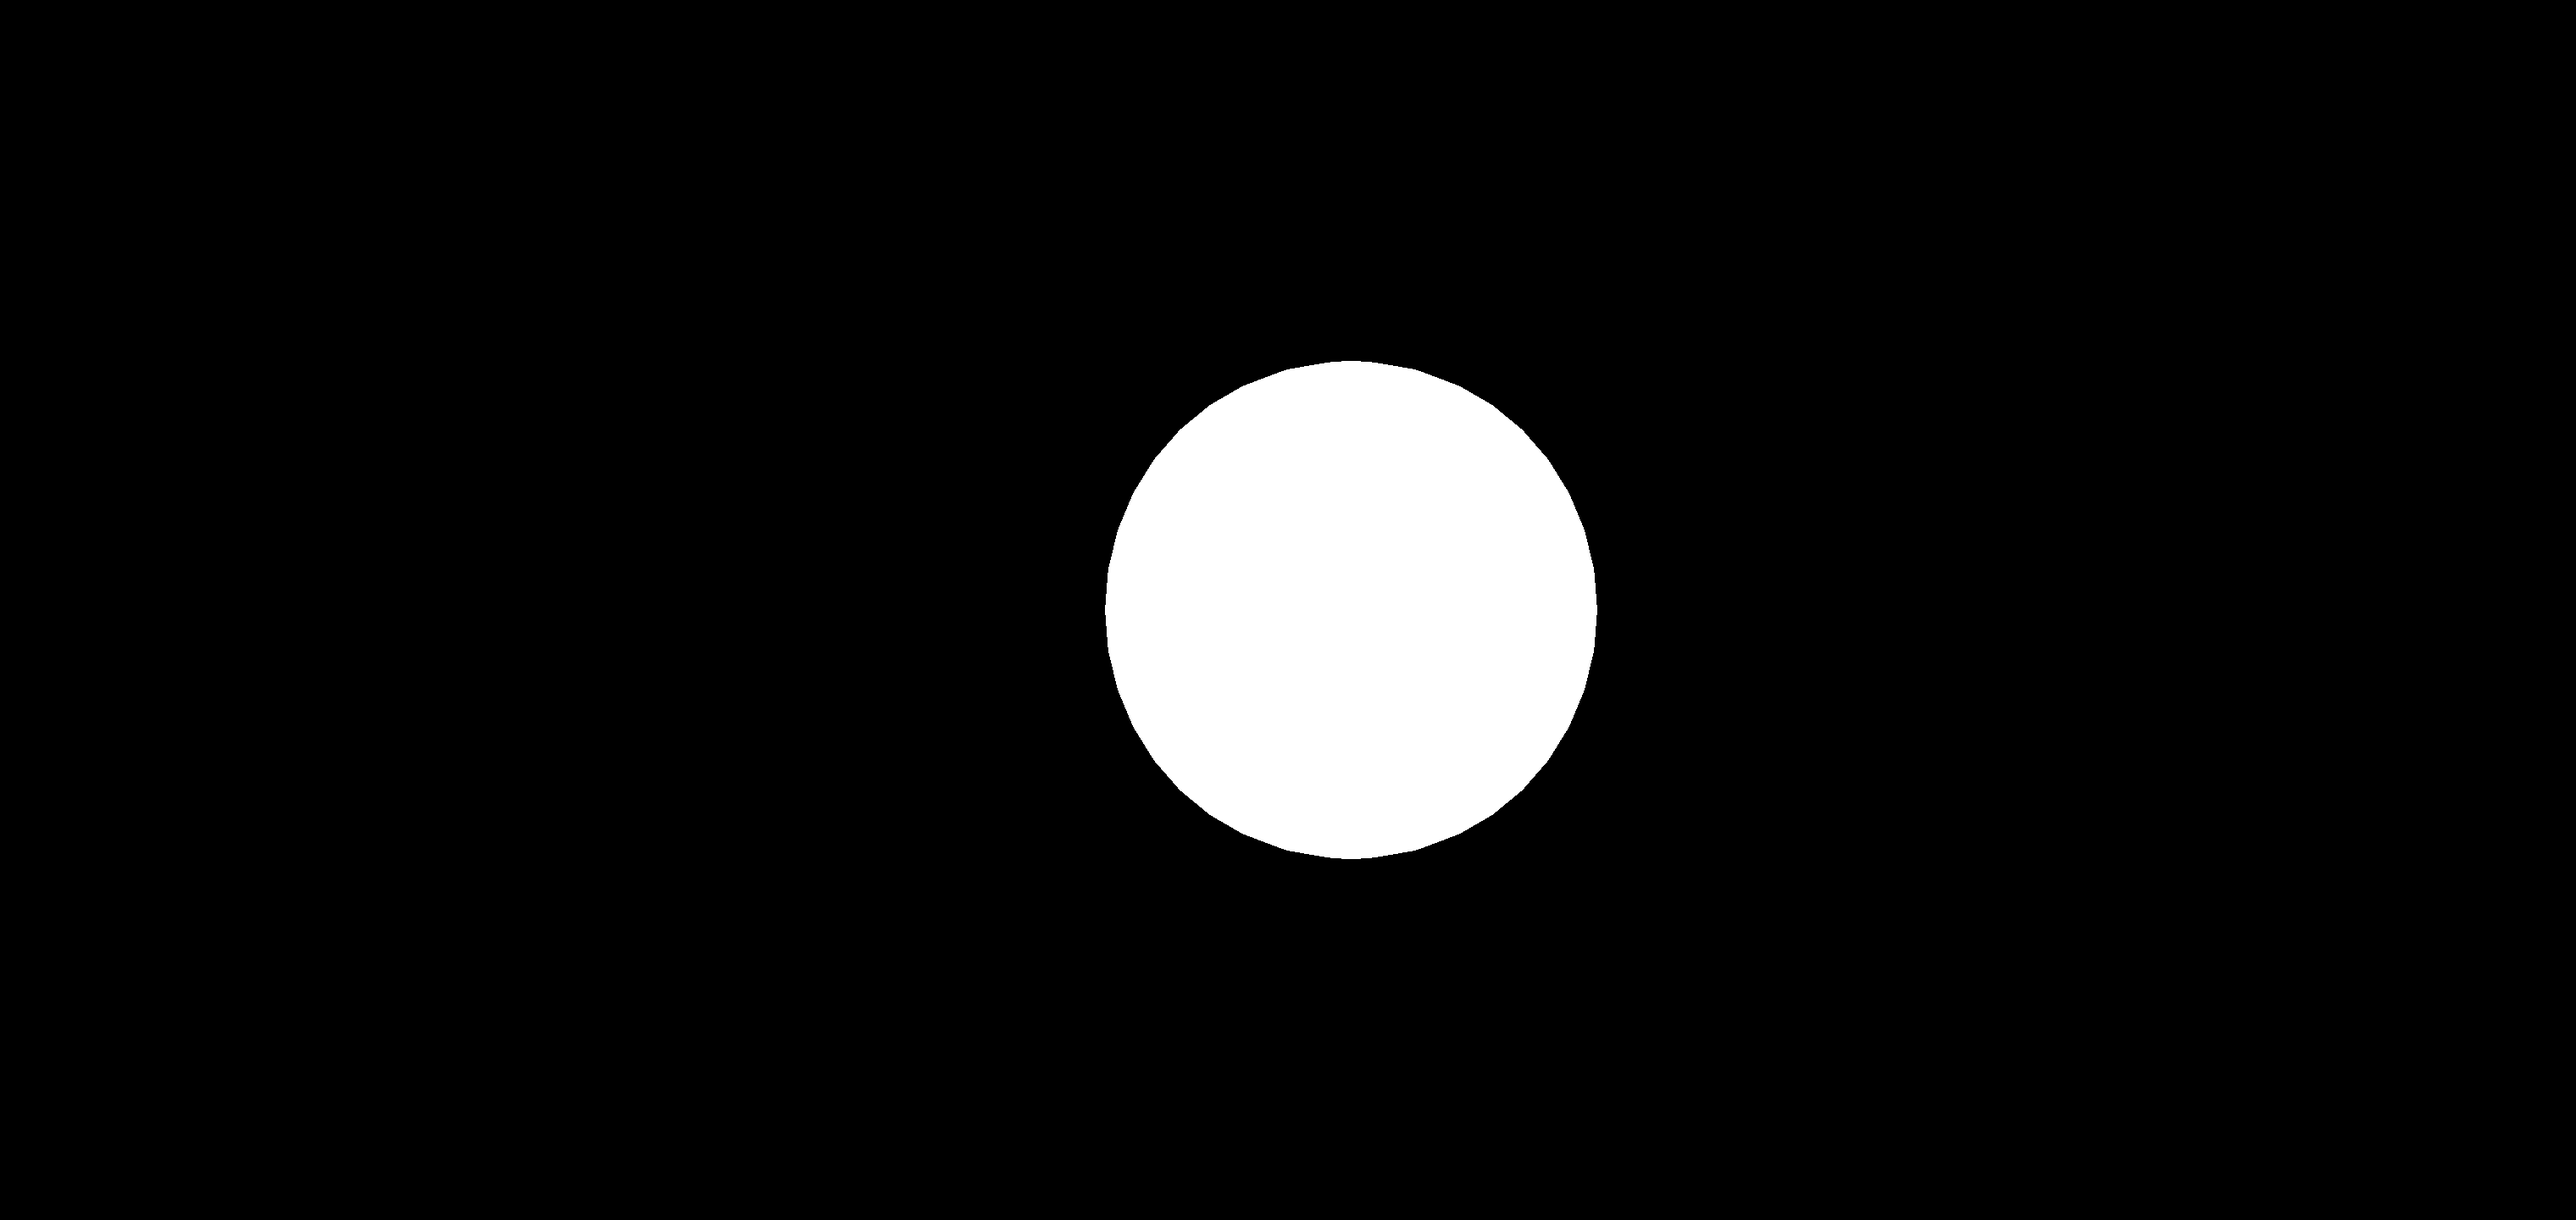
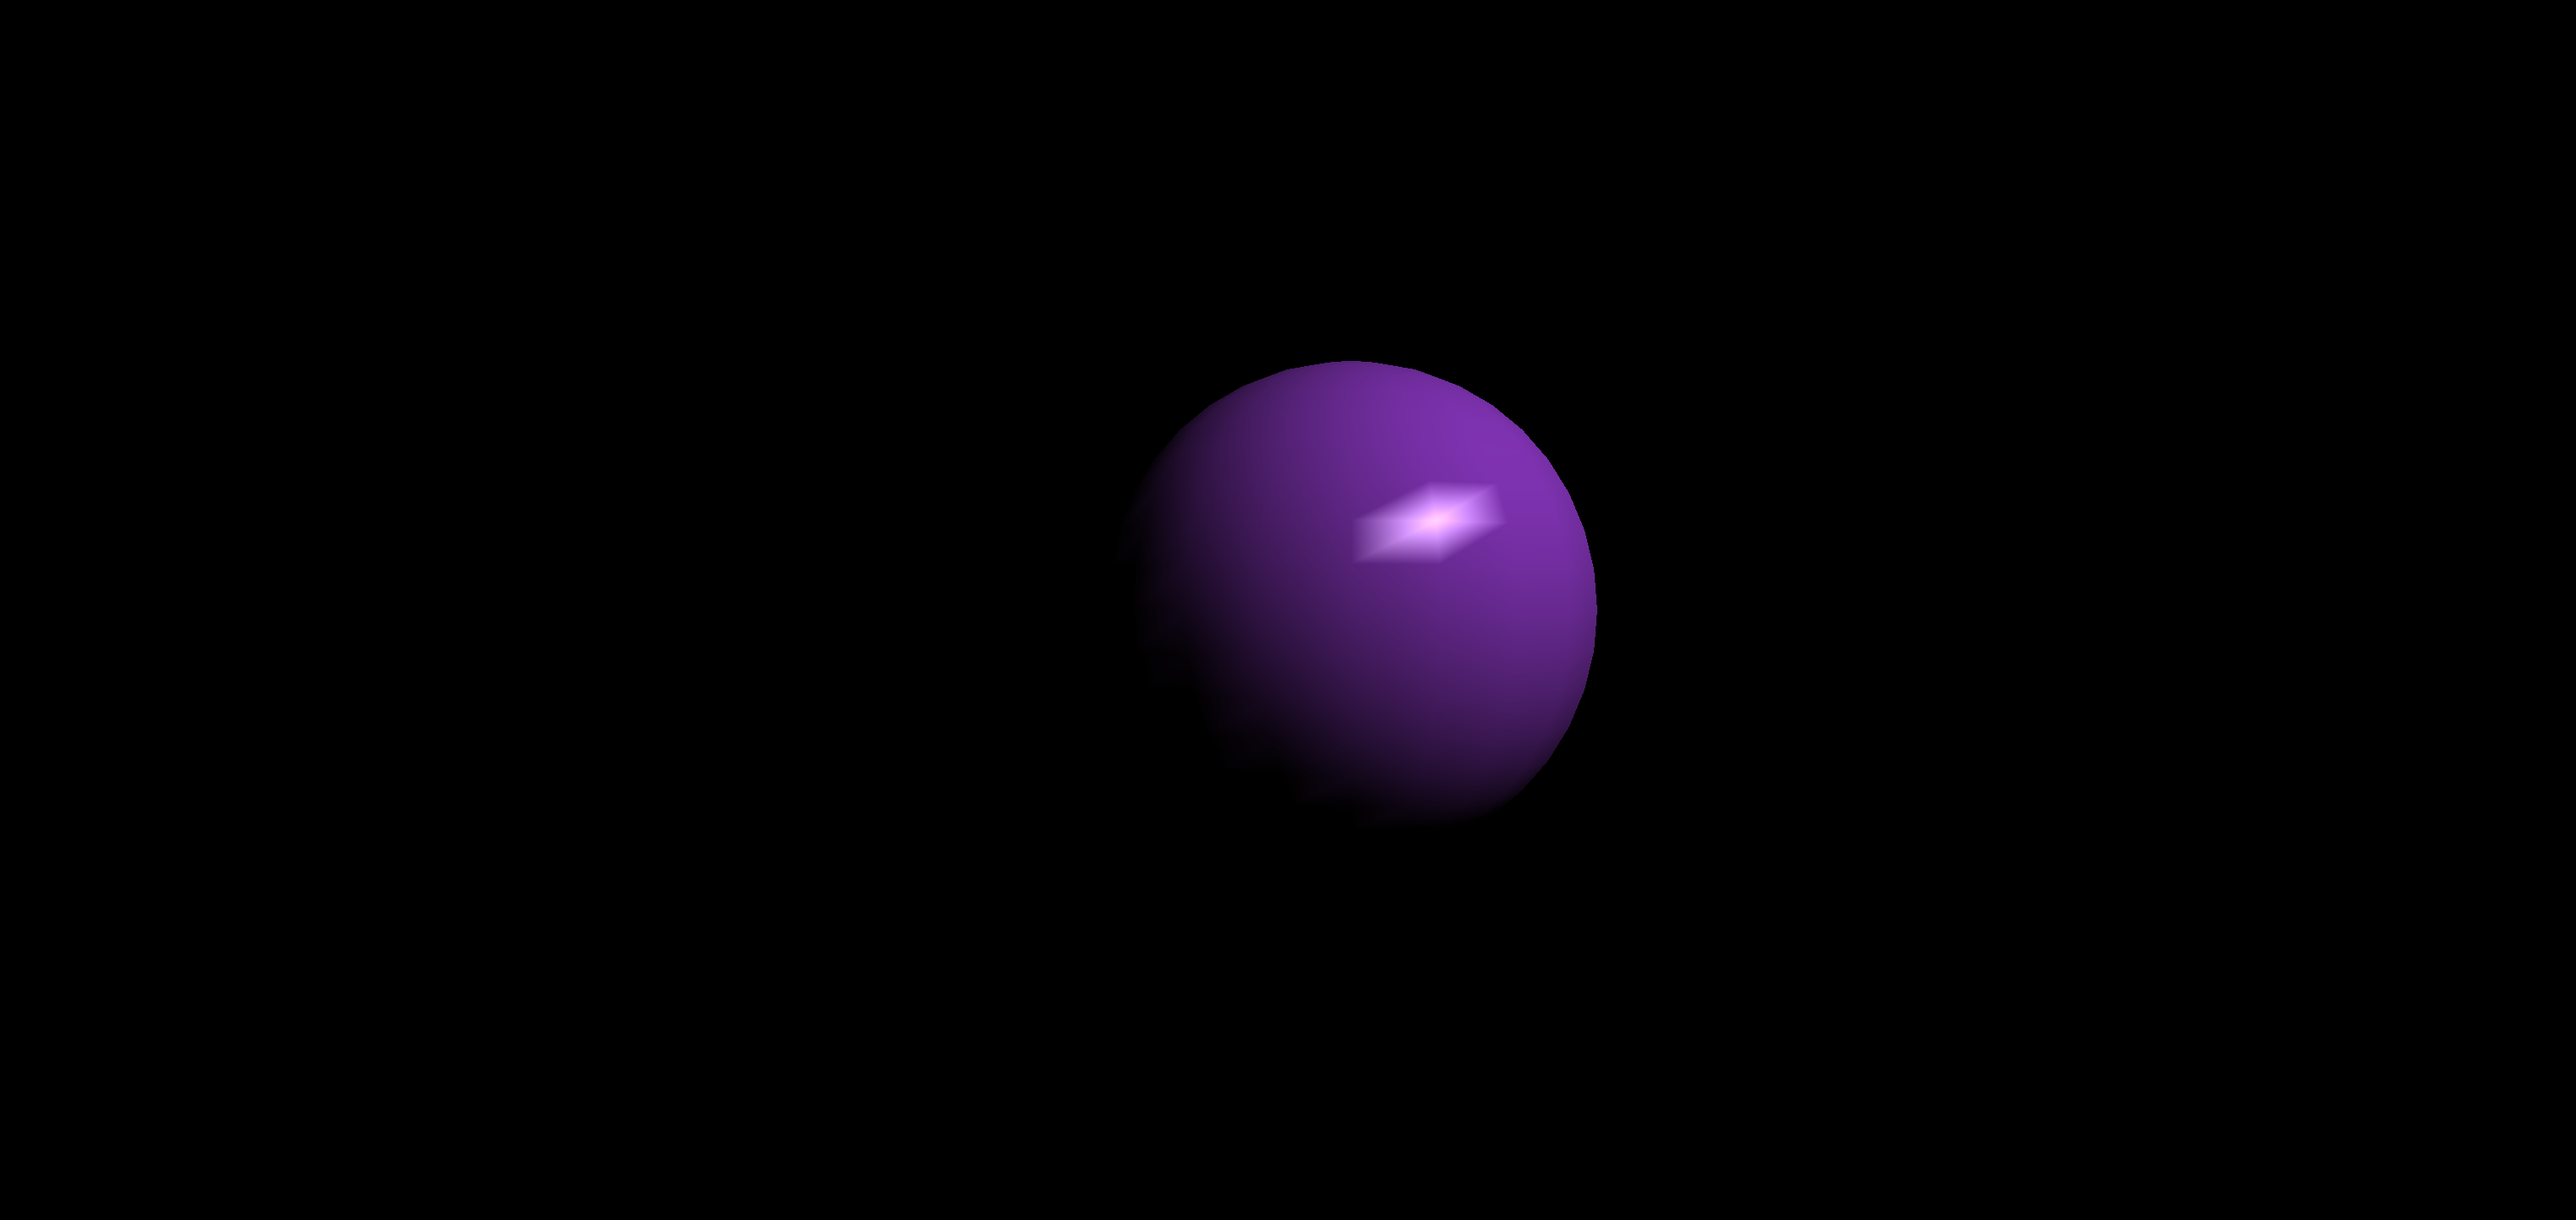
📱[android] per vertex light

Changed region(s): [[0.4062, 0.2812, 0.625, 0.7188]]

diff --git a/03-Android/01-ProgrammablePipeline/14-PerVertexLightOnSphere/app/src/main/java/com/ru7w1k/pervertexlight/GLESView.java b/03-Android/01-ProgrammablePipeline/14-PerVertexLightOnSphere/app/src/main/java/com/ru7w1k/pervertexlight/GLESView.java
@@ -27,7 +27,21 @@ public class GLESView extends GLSurfaceView implements GLSurfaceView.Renderer, O
     private int vertexShaderObject;
     private int fragmentShaderObject;
     private int shaderProgramObject;
-    private int mvpUniform;
+    private int mUniform;
+    private int vUniform;
+    private int pUniform;
+
+    private int laUniform;
+    private int ldUniform;
+    private int lsUniform;
+    private int lightPositionUniform;
+
+    private int kaUniform;
+    private int kdUniform;
+    private int ksUniform;
+    private int shininessUniform;
+
+    private int enableLightUniform;
 
     private int[] vaoSphere = new int[1];
     private int[] vboSpherePos = new int[1];
@@ -37,6 +51,7 @@ public class GLESView extends GLSurfaceView implements GLSurfaceView.Renderer, O
     private int numElements;
 
     private float[] perspectiveProjectionMatrix = new float[16];
+    private boolean bLight = false;
 
     public GLESView(Context drawingContext) {
         super(drawingContext);
@@ -123,6 +138,7 @@ public class GLESView extends GLSurfaceView implements GLSurfaceView.Renderer, O
 
     @Override
     public void onLongPress(MotionEvent e) {
+        bLight = !bLight;
     }
 
     @Override
@@ -146,13 +162,51 @@ public class GLESView extends GLSurfaceView implements GLSurfaceView.Renderer, O
         // vertex shader        
         final String vertexShaderSourceCode = String.format(
             "#version 320 es \n" +
+            "precision lowp int; \n" +
 
             "in vec4 vPosition; \n" +
-            "uniform mat4 u_mvpMatrix; \n" +
+            "in vec3 vNormal; \n" +
+
+            "uniform mat4 u_mMatrix; \n" +
+            "uniform mat4 u_vMatrix; \n" +
+            "uniform mat4 u_pMatrix; \n" +
+
+            "uniform vec3 u_La; \n" +
+            "uniform vec3 u_Ld; \n" +
+            "uniform vec3 u_Ls; \n" +
+            "uniform vec3 u_Ka; \n" +
+            "uniform vec3 u_Kd; \n" +
+            "uniform vec3 u_Ks; \n" +
+
+            "uniform float u_Shininess; \n" +
+            "uniform vec4 u_LightPos; \n" +
+            "uniform int u_bLight; \n" +
+
+            "out vec3 out_PhongLight; \n" +
 
             "void main (void) \n" +
             "{ \n" +
-            "	gl_Position = u_mvpMatrix * vPosition; \n" +
+            "	if (u_bLight == 1)" +
+            "	{ \n" +
+            "		vec4 eyeCoordinates = u_vMatrix * u_mMatrix * vPosition; \n" +
+            "		vec3 tNorm = normalize(mat3(u_vMatrix * u_mMatrix) * vNormal); \n" +
+            "		vec3 lightDir = normalize(vec3(u_LightPos - eyeCoordinates)); \n" +
+
+            "		float tNormDotLightDir = max(dot(tNorm, lightDir), 0.0); \n" +
+            "		vec3 reflectionVector = reflect(-lightDir, tNorm); \n" +
+            "		vec3 viewerVector = normalize(vec3(-eyeCoordinates.xyz)); \n" +
+
+            "		vec3 ambient = u_La * u_Ka; \n" +
+            "		vec3 diffuse = u_Ld * u_Kd * tNormDotLightDir; \n" +
+            "		vec3 specular = u_Ls * u_Ks * pow(max(dot(reflectionVector, viewerVector), 0.0), u_Shininess); \n" +
+
+            "		out_PhongLight = ambient + diffuse + specular; \n" +
+            "	} \n" +
+            "	else \n" +
+            "	{ \n" +
+            "		out_PhongLight = vec3(1.0, 1.0, 1.0); \n" +
+            "	} \n" +
+            "	gl_Position = u_pMatrix * u_vMatrix * u_mMatrix * vPosition; \n" +
             "} \n"
         );
 
@@ -182,11 +236,12 @@ public class GLESView extends GLSurfaceView implements GLSurfaceView.Renderer, O
             "#version 320 es \n" +
             "precision highp float; \n" +
 
+            "in vec3 out_PhongLight; \n" +
             "out vec4 FragColor; \n" +
 
             "void main (void) \n" +
             "{ \n" +
-            "	FragColor = vec4(1.0, 1.0, 1.0, 1.0); \n" +
+            "	FragColor = vec4(out_PhongLight, 1.0); \n" +
             "} \n"
         );
 
@@ -220,6 +275,7 @@ public class GLESView extends GLSurfaceView implements GLSurfaceView.Renderer, O
 
         // pre-linking binding to vertex attribute
         GLES32.glBindAttribLocation(shaderProgramObject, GLESMacros.RMC_ATTRIBUTE_POSITION, "vPosition");
+        GLES32.glBindAttribLocation(shaderProgramObject, GLESMacros.RMC_ATTRIBUTE_NORMAL, "vNormal");
 
         // link shader program and check errors
         int[] iShaderProgramLinkStatus = new int[1];
@@ -239,7 +295,21 @@ public class GLESView extends GLSurfaceView implements GLSurfaceView.Renderer, O
         }
 
         // get uniforms
-        mvpUniform = GLES32.glGetUniformLocation(shaderProgramObject, "u_mvpMatrix");
+        mUniform = GLES32.glGetUniformLocation(shaderProgramObject, "u_mMatrix");
+        vUniform = GLES32.glGetUniformLocation(shaderProgramObject, "u_vMatrix");
+        pUniform = GLES32.glGetUniformLocation(shaderProgramObject, "u_pMatrix");
+
+        laUniform = GLES32.glGetUniformLocation(shaderProgramObject, "u_La");
+        ldUniform = GLES32.glGetUniformLocation(shaderProgramObject, "u_Ld");
+        lsUniform = GLES32.glGetUniformLocation(shaderProgramObject, "u_Ls");
+
+        kaUniform = GLES32.glGetUniformLocation(shaderProgramObject, "u_Ka");
+        kdUniform = GLES32.glGetUniformLocation(shaderProgramObject, "u_Kd");
+        ksUniform = GLES32.glGetUniformLocation(shaderProgramObject, "u_Ks");
+
+        shininessUniform = GLES32.glGetUniformLocation(shaderProgramObject, "u_Shininess");
+        enableLightUniform = GLES32.glGetUniformLocation(shaderProgramObject, "u_bLight");
+        lightPositionUniform = GLES32.glGetUniformLocation(shaderProgramObject, "u_LightPos");
 
         // vertex array
         Sphere sphere = new Sphere();
@@ -288,7 +358,7 @@ public class GLESView extends GLSurfaceView implements GLSurfaceView.Renderer, O
         GLES32.glBufferData(GLES32.GL_ARRAY_BUFFER, sphere_normals.length * 4, floatBuffer, GLES32.GL_STATIC_DRAW);
         GLES32.glVertexAttribPointer(GLESMacros.RMC_ATTRIBUTE_NORMAL, 3, GLES32.GL_FLOAT, false, 0, 0);
         GLES32.glEnableVertexAttribArray(GLESMacros.RMC_ATTRIBUTE_NORMAL);
-        GLES32.glBindBuffer(GLES32.GL_ARRAY_BUFFER, 0);        
+        GLES32.glBindBuffer(GLES32.GL_ARRAY_BUFFER, 0);
 
         // create vbo for elements 
         GLES32.glGenBuffers(1, vboSphereElm, 0);
@@ -342,24 +412,39 @@ public class GLESView extends GLSurfaceView implements GLSurfaceView.Renderer, O
 
         //declaration of matrices
         float[] translateMatrix = new float[16];
-        float[] modelViewMatrix = new float[16];
-        float[] modelViewProjectionMatrix = new float[16];
+        float[] modelMatrix = new float[16];
+        float[] viewMatrix = new float[16];
 
         // intialize above matrices to identity
         Matrix.setIdentityM(translateMatrix, 0);
-        Matrix.setIdentityM(modelViewMatrix, 0);
-        Matrix.setIdentityM(modelViewProjectionMatrix, 0);
+        Matrix.setIdentityM(modelMatrix, 0);
+        Matrix.setIdentityM(viewMatrix, 0);
 
         // translation transformation
-        Matrix.translateM(modelViewMatrix, 0, 0.0f, 0.0f, -3.0f);
-
-        // do necessary matrix multiplication
-        Matrix.multiplyMM(modelViewProjectionMatrix, 0,
-            perspectiveProjectionMatrix, 0,
-            modelViewMatrix, 0);
+        Matrix.translateM(translateMatrix, 0, 0.0f, 0.0f, -3.0f);
+        modelMatrix = translateMatrix;
 
         // send necessary to shader in respective uniforms
-        GLES32.glUniformMatrix4fv(mvpUniform, 1, false, modelViewProjectionMatrix, 0);
+        GLES32.glUniformMatrix4fv(mUniform, 1, false, modelMatrix, 0);
+        GLES32.glUniformMatrix4fv(vUniform, 1, false, viewMatrix, 0);
+        GLES32.glUniformMatrix4fv(pUniform, 1, false, perspectiveProjectionMatrix, 0);
+
+        if (bLight) {
+            GLES32.glUniform3f(laUniform, 0.0f, 0.0f, 0.0f);
+            GLES32.glUniform3f(ldUniform, 1.0f, 1.0f, 1.0f);
+            GLES32.glUniform3f(lsUniform, 1.0f, 1.0f, 1.0f);
+            GLES32.glUniform4f(lightPositionUniform, 100.0f, 100.0f, 100.0f, 1.0f);
+            
+            GLES32.glUniform3f(kaUniform, 0.0f, 0.0f, 0.0f);
+            GLES32.glUniform3f(kdUniform, 0.5f, 0.2f, 0.7f);
+            GLES32.glUniform3f(ksUniform, 0.7f, 0.7f, 0.7f);
+            GLES32.glUniform1f(shininessUniform, 128.0f);
+
+            GLES32.glUniform1i(enableLightUniform, 1);
+        }
+        else {
+            GLES32.glUniform1i(enableLightUniform, 0);
+        }
 
         // bind with vao (this will avoid many binding to vbo_vertex)
         GLES32.glBindVertexArray(vaoSphere[0]);
